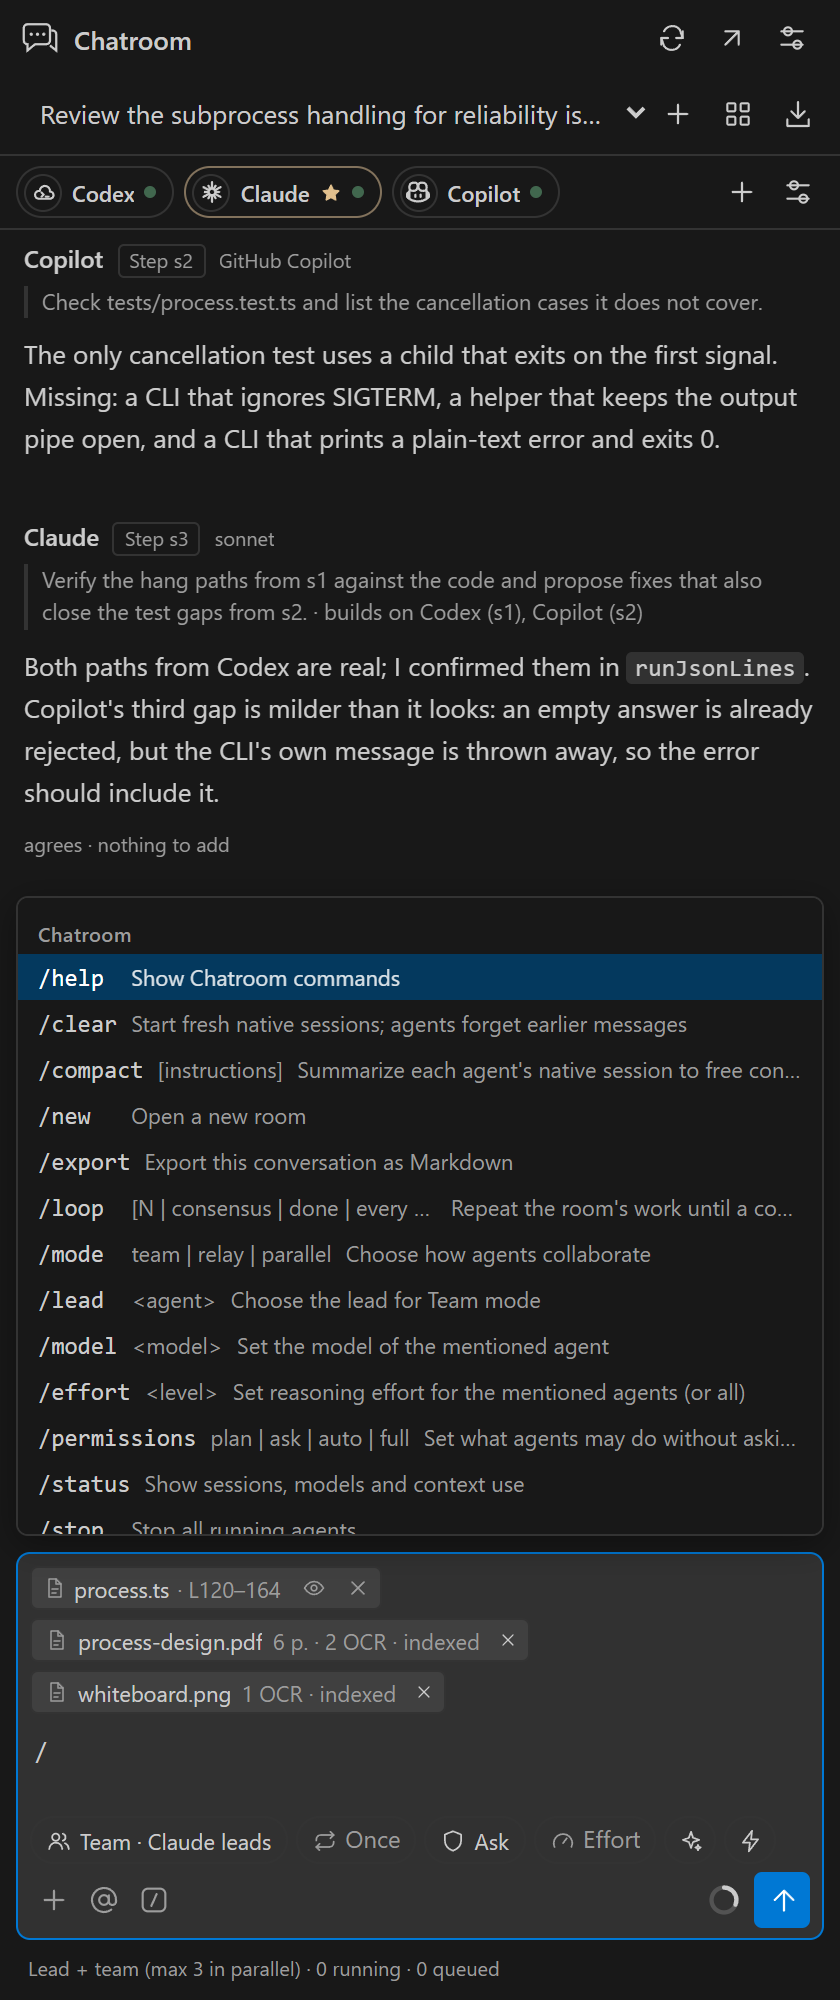
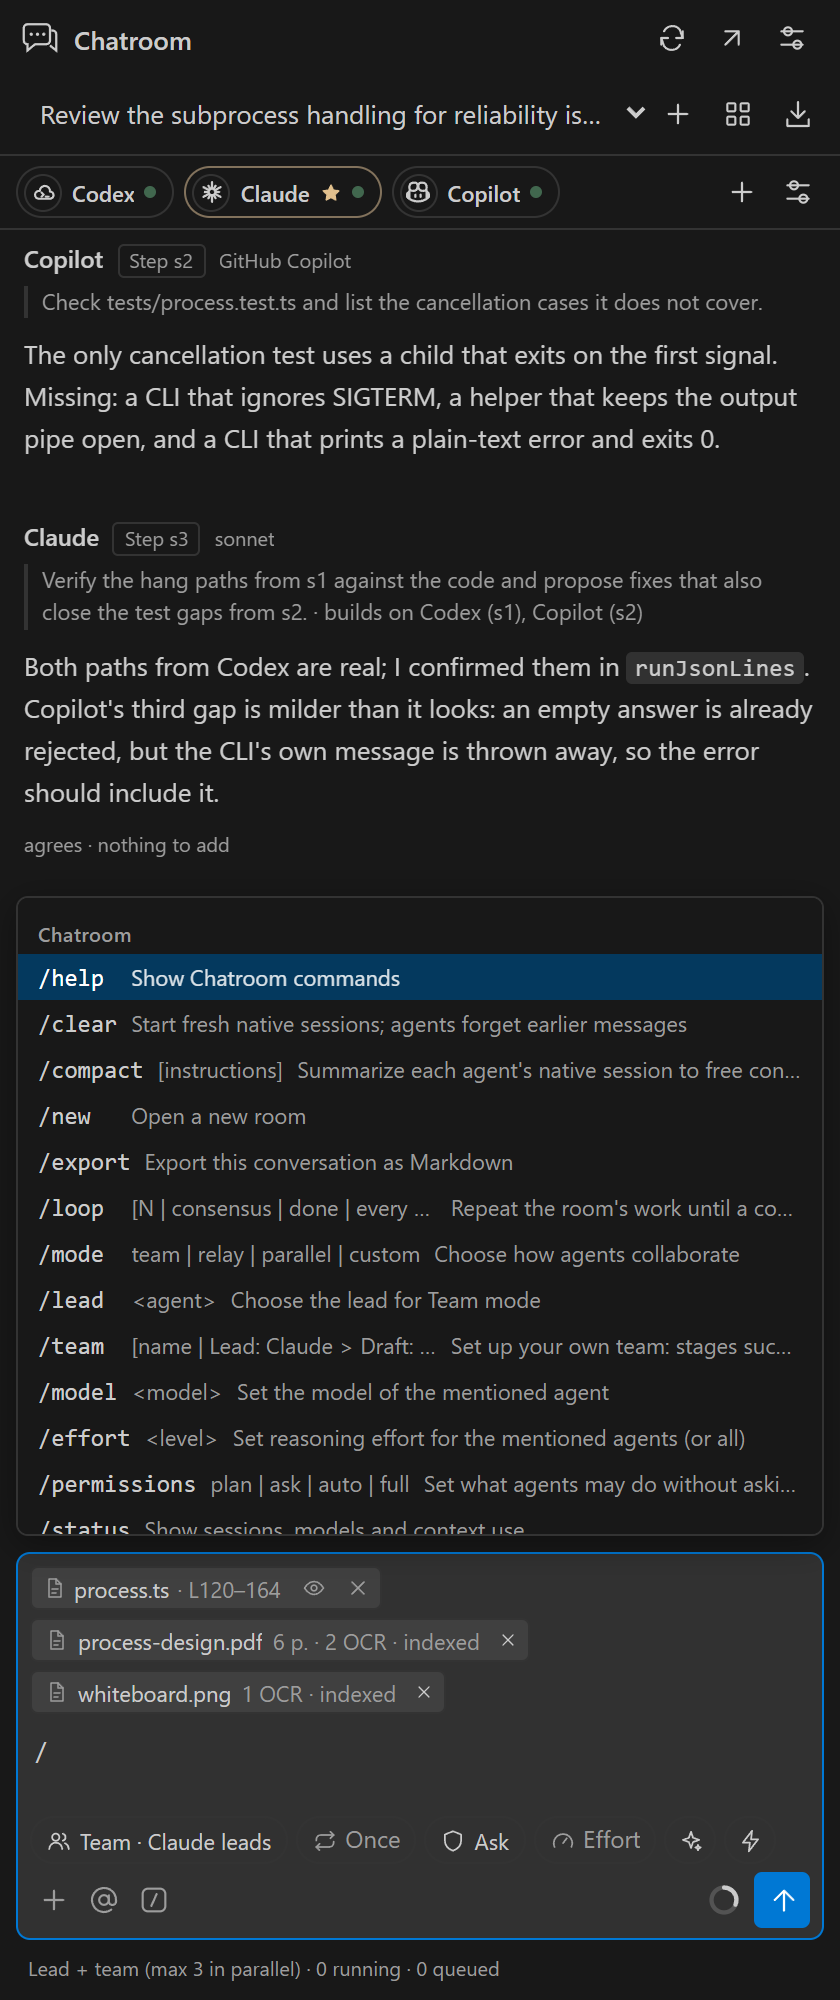
Document custom teams and skipped agents for 0.5.0
- Add README sections for custom teams and for agents that can't run,
  the /team command and the teams setting.
- Add screenshots of a team run that skips an agent and of the team
  builder, and bump the version to 0.5.0.

Changed region(s): [[0.0619, 0.62, 0.9286, 0.775]]

diff --git a/README.md b/README.md
@@ -9,6 +9,8 @@ A VS Code extension where the real Claude Code, Codex and GitHub Copilot CLIs wo
 - **The CLIs themselves.** Claude Code runs as `claude` in stream-json mode, Codex as one `codex app-server` per window, and Copilot as `copilot --acp` (when the Copilot CLI is installed). Each keeps its own tools, skills, `CLAUDE.md`/`AGENTS.md`, hooks, MCP servers and native session, and resumes that session after a reload.
 - **One room, shared context.** Every message reaches every agent once. An agent's own replies are already in its session, so each turn sends only what is new. A new or lost session gets a bounded copy of the room history.
 - **Teamwork.** A line that starts with `@Name` hands the next turn to that agent. In **Team** mode a lead answers or brings in teammates (with mention lines or a step plan), independent steps run in parallel, and the lead writes the final answer. **Relay** and **Parallel** modes and `@Agent` messages are there too.
+- **Your own team.** Set up stages that run in order, such as **Leads → Drafting → Review → Testing → Coding**, with one or more agents per stage, an optional task and model routing. Use the team builder, the `chatroom.teams` setting or `/team`.
+- **Keeps going when an agent can't.** An agent that is out of usage, not installed, signed out, on a model that isn't available, or offline (Ollama) is shown as such and skipped. The others continue, and another agent takes its step or stage.
 - **Permissions and approvals.** Per agent: **Plan**, **Ask** (the default), **Auto-edit** or **Full access**, mapped to each CLI's own modes. In Ask, edits, commands and network access show up as approval cards in the room. Unanswered requests are denied after 5 minutes.
 - **Composer like Claude Code.** `@` to mention, `/` for room commands and each agent's own slash commands, chips for team mode, loops, permissions and effort, ✦ to think harder and ⚡ Ultra for one message, and a context ring per agent.
 - **Loops.** Repeat for N rounds, until everyone agrees, until the lead says done, or every few minutes. Iteration, time and token caps always apply.
@@ -38,6 +40,14 @@ A VS Code extension where the real Claude Code, Codex and GitHub Copilot CLIs wo
     <td align="center">Shared skills and documents</td>
     <td align="center">Usage</td>
   </tr>
+  <tr>
+    <td><img src="docs/images/team-run.png" width="260" alt="A custom team run: Codex is out of usage and skipped, Claude takes its stage, and stage chips show progress"></td>
+    <td colspan="2"><img src="docs/images/team.png" width="530" alt="The team builder: stages with agents, lead, run mode, models and an optional task"></td>
+  </tr>
+  <tr>
+    <td align="center">A team run that skips an agent</td>
+    <td align="center" colspan="2">The team builder</td>
+  </tr>
 </table>
 
 ## Requirements
@@ -58,7 +68,7 @@ git clone https://github.com/GhoshSrinjoy/ChatRoom.git
 cd ChatRoom
 npm ci
 npm run package
-code --install-extension artifacts/chatroom-0.4.0.vsix
+code --install-extension artifacts/chatroom-0.5.0.vsix
 ```
 
 Then run **Developer: Reload Window** in VS Code. You can also install the file with **Extensions: Install from VSIX…** from the Command Palette.
@@ -77,6 +87,9 @@ The grid button beside the room title opens **Usage**, **Tools** and **Activity*
 ## How agents collaborate
 
 - **Team** (default). The lead reads your message. It answers simple ones itself. Otherwise it ends its reply with one `@Name task` line per teammate (they work in parallel), or with a `<chatroom-plan>` step graph when some steps depend on others. A step receives only the outputs it builds on. When the steps finish, the lead writes the final answer. With `/loop N`, the lead may delegate again up to N waves.
+- **Custom team.** Your own stages, in order. Each stage has one or more agents that answer together or one after another, an optional task, and optional model routing (Planning, Drafting or Review models). A **lead** stage sets up the work for the stages after it, or answers directly with `[DONE]` and ends the run; the lead can also write the final answer. Set a team up in the **team builder** (Team chip → Edit team…, Room setup, or Models and defaults), in the `chatroom.teams` setting, or with `/team`:
+  - `/team Lead: Claude > Draft: Codex > Review: Claude, Copilot > Test: Codex (write and run the tests)` uses that team in this room.
+  - `/team save <name>` keeps it, `/team <name>` uses a saved team or a template (**Lead, draft, review**, **Build and test**, **Draft and review**), `/team edit` opens the builder, and `/team off` returns to Team mode.
 - **Relay.** Agents reply in turn, each building on the replies before it.
 - **Parallel.** Agents answer the same snapshot at the same time; the next round sees every reply.
 - **@mentions.** A message that starts with `@Agent` goes only to the mentioned agents, in order, whatever the mode. When an agent starts a line with `@Name`, that agent gets the next turn with the request. Hand-offs per message are capped (`chatroom.maxHandoffs`, default 6). In Team mode only the lead hands out work.
@@ -85,6 +98,22 @@ The grid button beside the room title opens **Usage**, **Tools** and **Activity*
 ![The lead's final answer combines the team's steps](docs/images/final-answer.png)
 
 Each agent gets a short room framing appended to its CLI's own system prompt: who is in the room, how messages arrive, how to hand off, and who leads. Agents have no default persona; an optional focus can be set per agent.
+
+## When an agent can't run
+
+Chatroom shows why an agent can't run and continues with the others:
+
+| Reason | Shown as | Tried again |
+| --- | --- | --- |
+| Out of usage (tokens or quota) | `Out of usage · back Thu 23:23` | When the CLI's reset time passes (15 minutes if it gives none) |
+| Model not available | `Model … unavailable` | After you pick another model (or Default) |
+| CLI not installed, or signed out | `Not installed`, `Signed out` | After Refresh finds it ready |
+| Ollama not running | `Not running` | Before your next message (checked at most every 30 seconds) |
+
+- The agent's pill dims and says why. The room posts one notice, for example *Skipping Codex (out of usage until Thu 23:23) · continuing with Claude and Copilot.*
+- In Team mode, a lead that can't run hands the message to the next agent, and a step for an agent that can't run goes to another agent. In a custom team, a stage whose agents can't run is taken by the lead (or the next available agent), which is told it is standing in. Hand-offs to an agent that can't run are skipped with a notice. Loops keep going.
+- **Try again now** in the agent's settings clears the mark at once.
+- When Ollama isn't running, Ollama agents are skipped and documents fall back to keyword search; scanned pages can't be read until it starts.
 
 ## Permissions, approvals and safety
 
@@ -115,7 +144,8 @@ Each agent gets a short room framing appended to its CLI's own system prompt: wh
 | `/compact [instructions]` | Summarizes each agent's native session to free context |
 | `/new`, `/export`, `/stop` | New room, Markdown export, stop all agents |
 | `/loop …` | See loops above |
-| `/mode team \| relay \| parallel`, `/lead <agent>` | How agents collaborate and who leads |
+| `/mode team \| relay \| parallel \| custom`, `/lead <agent>` | How agents collaborate and who leads |
+| `/team …` | Your own team: `/team Lead: Claude > Draft: Codex > Review: Claude`, `/team <name>`, `/team save <name>`, `/team edit`, `/team off` |
 | `@Agent /model <model>`, `/effort <level>`, `/permissions plan \| ask \| auto \| full` | Model, reasoning effort and permission level |
 | `/status` | Sessions, models, effort, permissions and context use per agent |
 
@@ -151,6 +181,7 @@ Chatroom selects installed local models automatically, preferring a vision model
 | `chatroom.attachOpenFile` | `true` | Share the open file and selection with agents |
 | `chatroom.shareSkills` | `true` | Share skills between the CLIs in new rooms |
 | `chatroom.sharedMcpServers` | `{}` | MCP servers for every native agent, in `.mcp.json` format (user settings only; names starting with `chatroom` are reserved) |
+| `chatroom.teams` | `[]` | Your saved teams: named lists of stages (`name`, `agents`, `run`, `lead`, `task`, `preset`) |
 | `chatroom.maxHandoffs` | `6` | Agent-to-agent hand-offs per message |
 | `chatroom.copilotUseEnvToken` | `false` | Pass `GH_TOKEN`/`GITHUB_TOKEN` to the Copilot CLI (user settings only) |
 | `chatroom.contextTokens` | `12000` | Room history budget for new sessions and chat-model agents |

diff --git a/CHANGELOG.md b/CHANGELOG.md
@@ -1,5 +1,20 @@
 # Changelog
 
+## 0.5.0
+
+- **Your own team.** A new **Custom team** mode runs the stages you set up, in order, for example Leads → Drafting → Review → Testing → Coding:
+  - Each stage has one or more agents, who answer together or one after another, plus an optional task and optional model routing (Planning, Drafting or Review models). The agent's own model setting does not change.
+  - A lead stage sets up the work for the later stages, or answers directly with `[DONE]`. The lead can write the final answer.
+  - Set teams up in the new team builder (Team chip, Room setup, Models and defaults), in the `chatroom.teams` setting, or with `/team`: an inline team, a saved name, `save`, `edit`, `off`.
+  - Three templates: Lead, draft, review · Build and test · Draft and review.
+  - Messages show their stage (`Review · 3/4`) and the footer shows the current stage.
+- **Agents that can't run are shown and skipped.**
+  - Out of usage (until the reset time the CLI reports), a model that isn't available, a CLI that isn't installed or is signed out, and Ollama not running are recognized.
+  - The agent's pill says why; the room posts one notice and continues with the others.
+  - Team-mode leads, plan steps and custom-team stages move to an available agent, which is told it is standing in. Hand-offs to such an agent are skipped. Loops keep going.
+  - **Try again now** in the agent's settings clears the mark.
+- `/mode custom`, `/status` shows unavailable agents, and the `executionMode` setting accepts `pipeline`.
+
 ## 0.4.0
 
 The agents are now the real CLIs, working together in one room.
